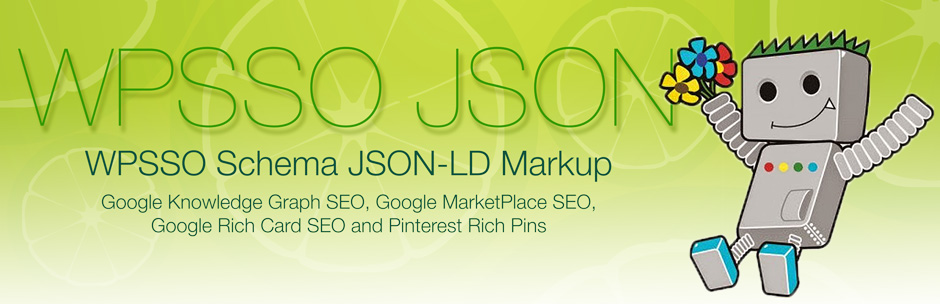
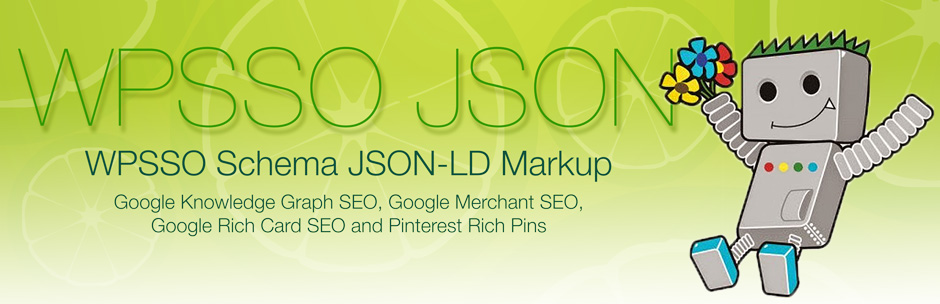
non-essential support files (documentation and assets)

Changed region(s): [[0.0926, 0.6217, 0.617, 0.7105]]

diff --git a/index.html b/index.html
@@ -25,7 +25,7 @@
         </ul>
       </header>
       <section>
-<h1>WPSSO Schema JSON-LD Markup for Google Knowledge Graph, MarketPlace, Rich Card SEO, and Pinterest Rich Pins</h1>
+<h1>WPSSO Schema JSON-LD Markup for Google Knowledge Graph, Merchant, Rich Card SEO, and Pinterest Rich Pins</h1>
 
 <table>
 <tr><th align="right" valign="top" nowrap>Plugin Name</th><td>WPSSO Schema JSON-LD Markup</td></tr>
@@ -35,7 +35,7 @@
 <tr><th align="right" valign="top" nowrap>Tested Up To</th><td>WordPress 5.0</td></tr>
 <tr><th align="right" valign="top" nowrap>Contributors</th><td>jsmoriss</td></tr>
 <tr><th align="right" valign="top" nowrap>License</th><td><a href="https://www.gnu.org/licenses/gpl.txt">GPLv3</a></td></tr>
-<tr><th align="right" valign="top" nowrap>Tags / Keywords</th><td>google, knowledge graph, marketplace, rich cards, rich pins, local seo, image seo, video seo, woocommerce, news seo, ld+json, rating, review, recipe, event, product, qapage, howto</td></tr>
+<tr><th align="right" valign="top" nowrap>Tags / Keywords</th><td>google, knowledge graph, merchant, rich cards, rich pins, local seo, image seo, video seo, woocommerce, news seo, ld+json, rating, review, recipe, event, product, qapage, howto</td></tr>
 </table>
 
 <h2>Description</h2>
